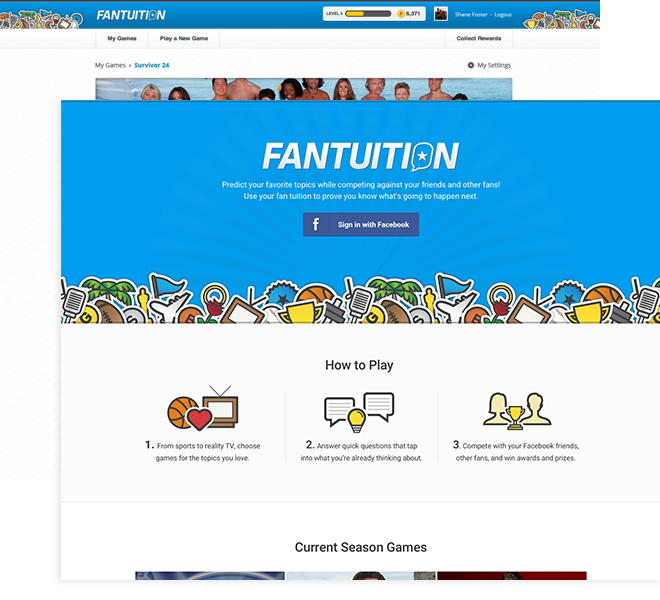
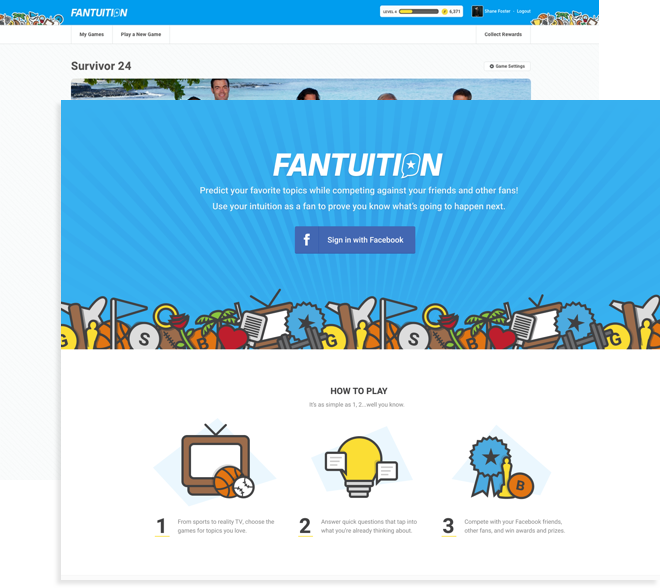
Update Cldy. Add new Fantuition screens. Fix bbroken Twitter link in footer.

diff --git a/_works/fantuition.html b/_works/fantuition.html
@@ -4,7 +4,7 @@ image_path: /assets/img/work/fantuition/fantuition_screens.png
 date: 2012-11-16
 layout: work
 excerpt1: Fantuition was an an online game that allowed people to attempt to predict the outcome of their favorite events, like sports or TV shows. Most current fantasy sports games require a huge time commitment and a great deal of dedication. We aimed to offer quick, fun games for niche topics, that might appeal to a much wider audience.
-excerpt2: This was a funded, bootstrapped startup. I was the lone designer on a small, agile team that featured a PM and three engineers. I spent my time on UX, Visual Design and all Front-end code. 
+excerpt2: This was a funded, bootstrapped startup. I was the lone designer on a small, agile team that featured a PM and a Lead Engineer and two other senior engineers. I spent my time on UX, Visual Design and all Front-end code. 
 ---
 
 <div class="Container--text">
@@ -105,8 +105,8 @@ excerpt2: This was a funded, bootstrapped startup. I was the lone designer on a 
 <div class="Grid">	
 	<div class="Grid-cell u-size1of4">
 		<figure class="Image">
-			<a data-fancybox="gallery" href="/assets/img/work/fantuition/fantuition_index.png">
-				<img src="/assets/img/work/fantuition/fantuition_index.png" />
+			<a data-fancybox="gallery" href="/assets/img/work/fantuition/fantuition-home.png">
+				<img src="/assets/img/work/fantuition/fantuition-home.png" />
 			</a>
 			<figcaption>Click For Larger</figcaption>
 		</figure>
@@ -123,8 +123,8 @@ excerpt2: This was a funded, bootstrapped startup. I was the lone designer on a 
 
 	<div class="Grid-cell u-size1of4">
 		<figure class="Image">
-			<a data-fancybox="gallery" href="/assets/img/work/fantuition/fantuition_bachelorette.jpg">
-				<img src="/assets/img/work/fantuition/fantuition_bachelorette.jpg" />
+			<a data-fancybox="gallery" href="/assets/img/work/fantuition/bachelorette-landing.png">
+				<img src="/assets/img/work/fantuition/bachelorette-landing.png" />
 			</a>
 			<figcaption>Click For Larger</figcaption>
 		</figure>

diff --git a/_includes/footer.html b/_includes/footer.html
@@ -18,7 +18,7 @@
 				<div class="Grid-cell u-size-full u-md-size1of2 u-textRight">
 					<ul class="Social">
 	          <li class="Social-item">
-	            <a  target="_blank" class="Social-link Social-twitter" href="http://twitter.com/shane_foster14">Twitter</a>
+	            <a  target="_blank" class="Social-link Social-twitter" href="http://twitter.com/shanefoster_14">Twitter</a>
 	          </li>
 	          <li class="Social-item">
 	            <a target="_blank" class="Social-link Social-linkedin" href="https://www.linkedin.com/in/shanetfoster">LinkedIn</a>

diff --git a/_works/cloudability.html b/_works/cloudability.html
@@ -3,7 +3,9 @@ title: Cloudability
 image_path: /assets/img/work/cloudability/cloudability_screens.png
 date: 2018-04-04
 layout: work
-excerpt1: I did some stuff at Cloudability.
+excerpt1: Cloudability is a tool that allows for the management and optimization of a business' cloud spending. 
+excerpt2: While at Cloudability, I was responsible for designing a new landing page and onboarding flow, tools for cost visibility and chargeback and in-app help and education tools.
+layout: work
 ---
 
 <div class="Container--text">

diff --git a/index.html b/index.html
@@ -25,7 +25,7 @@ tagline: WELCOME! MY NAME IS SHANE &
 					<p>{{works.excerpt1}}</p>
 					<p>{{works.excerpt2}}</p>
 					<div class="u-displayBlock u-textCenter u-spaceEndsXXLg u-md-textLeft">
-						<a href="/portfolio/5baa61e4c9b93f3f0682250b6cf8331b7ee68fd8" class="Button">View Full Portfolio →</a>
+						<a href="{{works.url}}" class="Button">View Project Details →</a>
 					</div>
 				</div>
 			</div>
